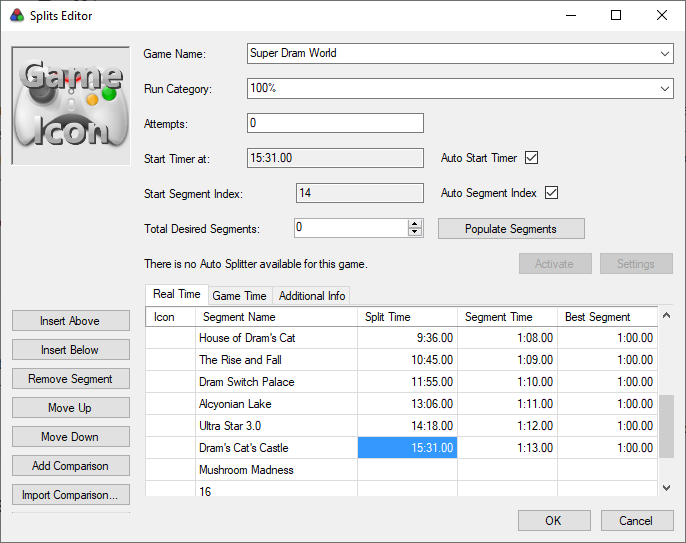
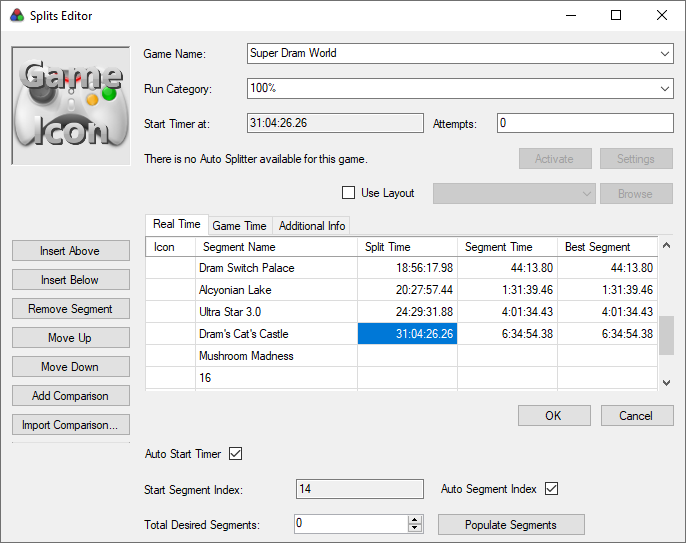
Update RunEditorDialog to have custom elements on correct lines and update documentation image with new layout

diff --git a/LiveSplit/LiveSplit.View/View/RunEditorDialog.Designer.cs b/LiveSplit/LiveSplit.View/View/RunEditorDialog.Designer.cs
@@ -168,13 +168,13 @@
             this.tableLayoutPanel1.Controls.Add(this.chkbxUseLayout, 4, 5);
             this.tableLayoutPanel1.Controls.Add(this.flowLayoutPanel1, 5, 4);
             this.tableLayoutPanel1.Controls.Add(this.lblDescription, 1, 4);
-            this.tableLayoutPanel1.Controls.Add(this.lblStartSegmentIndex, 1, 16);
-            this.tableLayoutPanel1.Controls.Add(this.tbxSegmentIndex, 4, 16);
-            this.tableLayoutPanel1.Controls.Add(this.checkBoxAutoSegmentIndex, 5, 16);
-            this.tableLayoutPanel1.Controls.Add(this.lblTotalDesiredSegments, 1, 17);
-            this.tableLayoutPanel1.Controls.Add(this.numTotalDesiredSegments, 4, 17);
-            this.tableLayoutPanel1.Controls.Add(this.btnPopulateSegments, 5, 17);
-            this.tableLayoutPanel1.Controls.Add(this.checkBoxAutoStartTimer, 1, 15);
+            this.tableLayoutPanel1.Controls.Add(this.lblStartSegmentIndex, 1, 17);
+            this.tableLayoutPanel1.Controls.Add(this.tbxSegmentIndex, 4, 17);
+            this.tableLayoutPanel1.Controls.Add(this.checkBoxAutoSegmentIndex, 5, 17);
+            this.tableLayoutPanel1.Controls.Add(this.lblTotalDesiredSegments, 1, 18);
+            this.tableLayoutPanel1.Controls.Add(this.numTotalDesiredSegments, 4, 18);
+            this.tableLayoutPanel1.Controls.Add(this.btnPopulateSegments, 5, 18);
+            this.tableLayoutPanel1.Controls.Add(this.checkBoxAutoStartTimer, 1, 16);
             this.tableLayoutPanel1.Dock = System.Windows.Forms.DockStyle.Fill;
             this.tableLayoutPanel1.Location = new System.Drawing.Point(0, 0);
             this.tableLayoutPanel1.Name = "tableLayoutPanel1";
